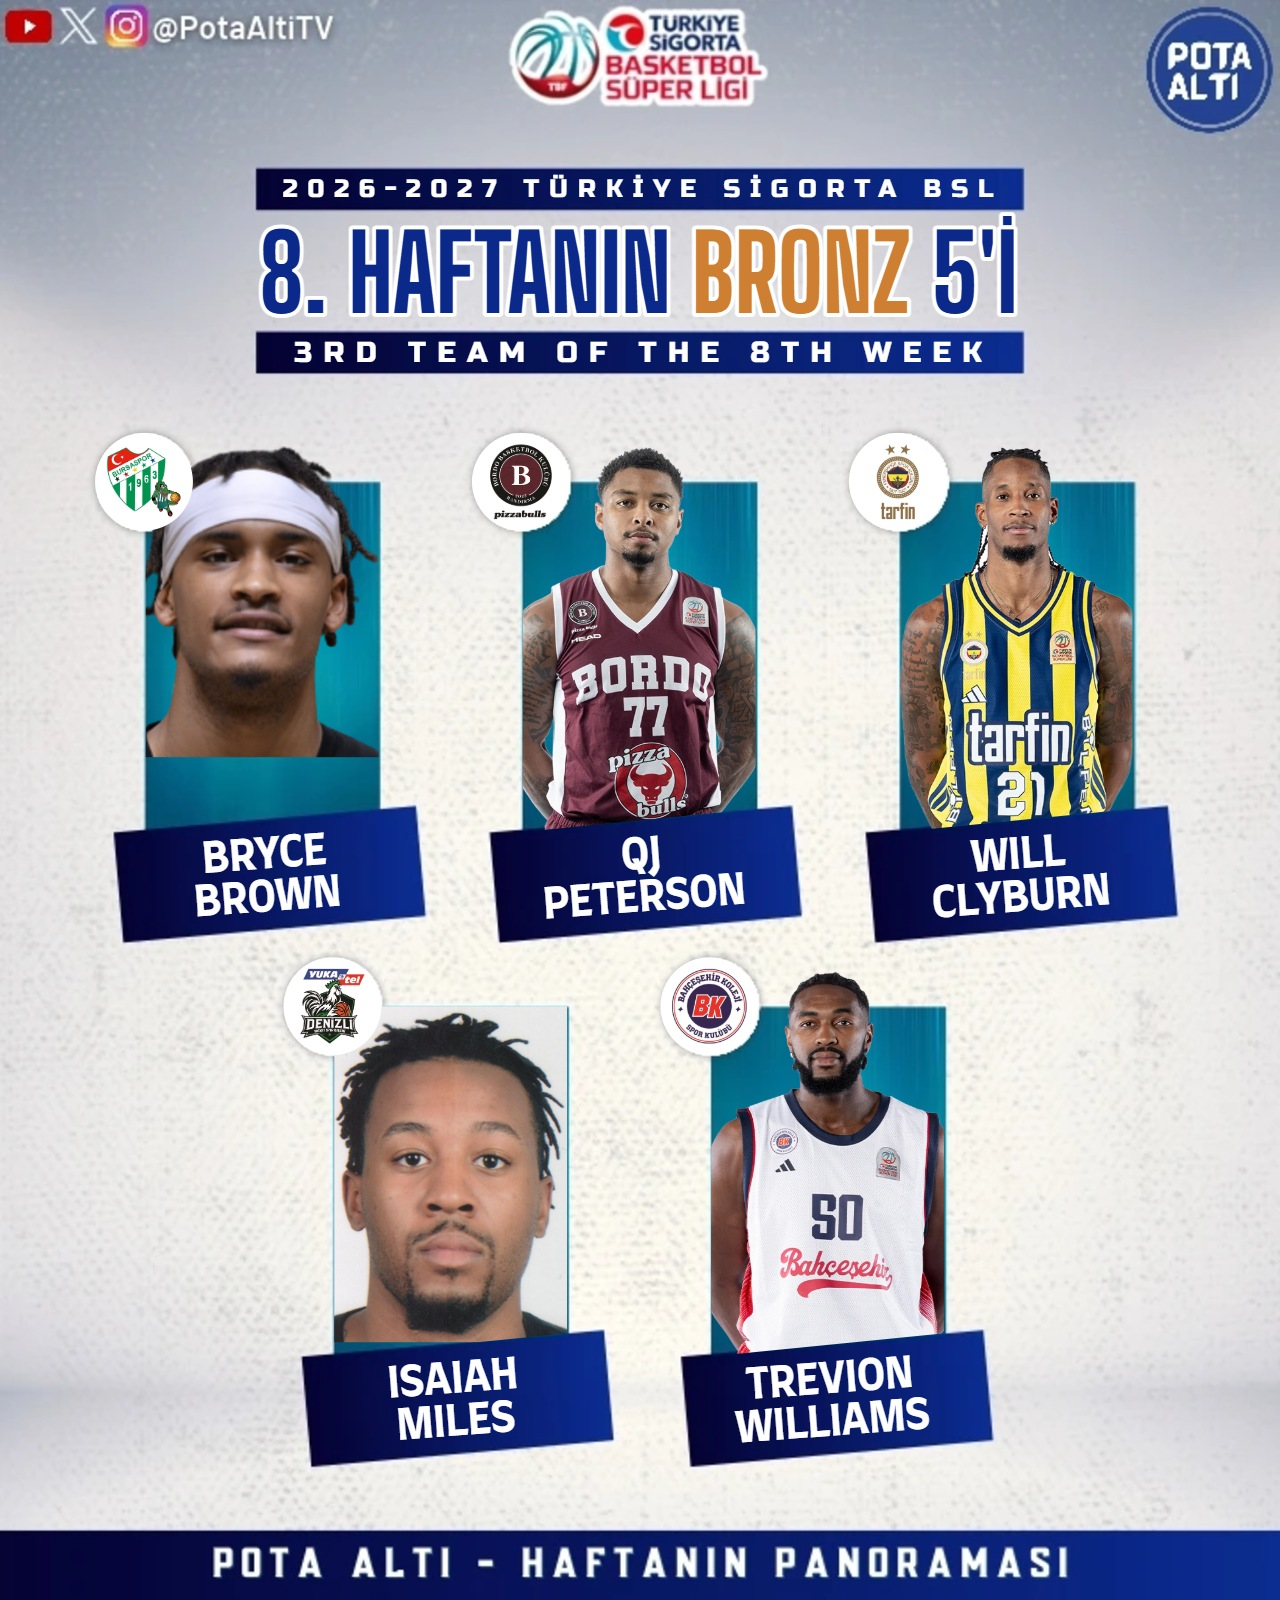
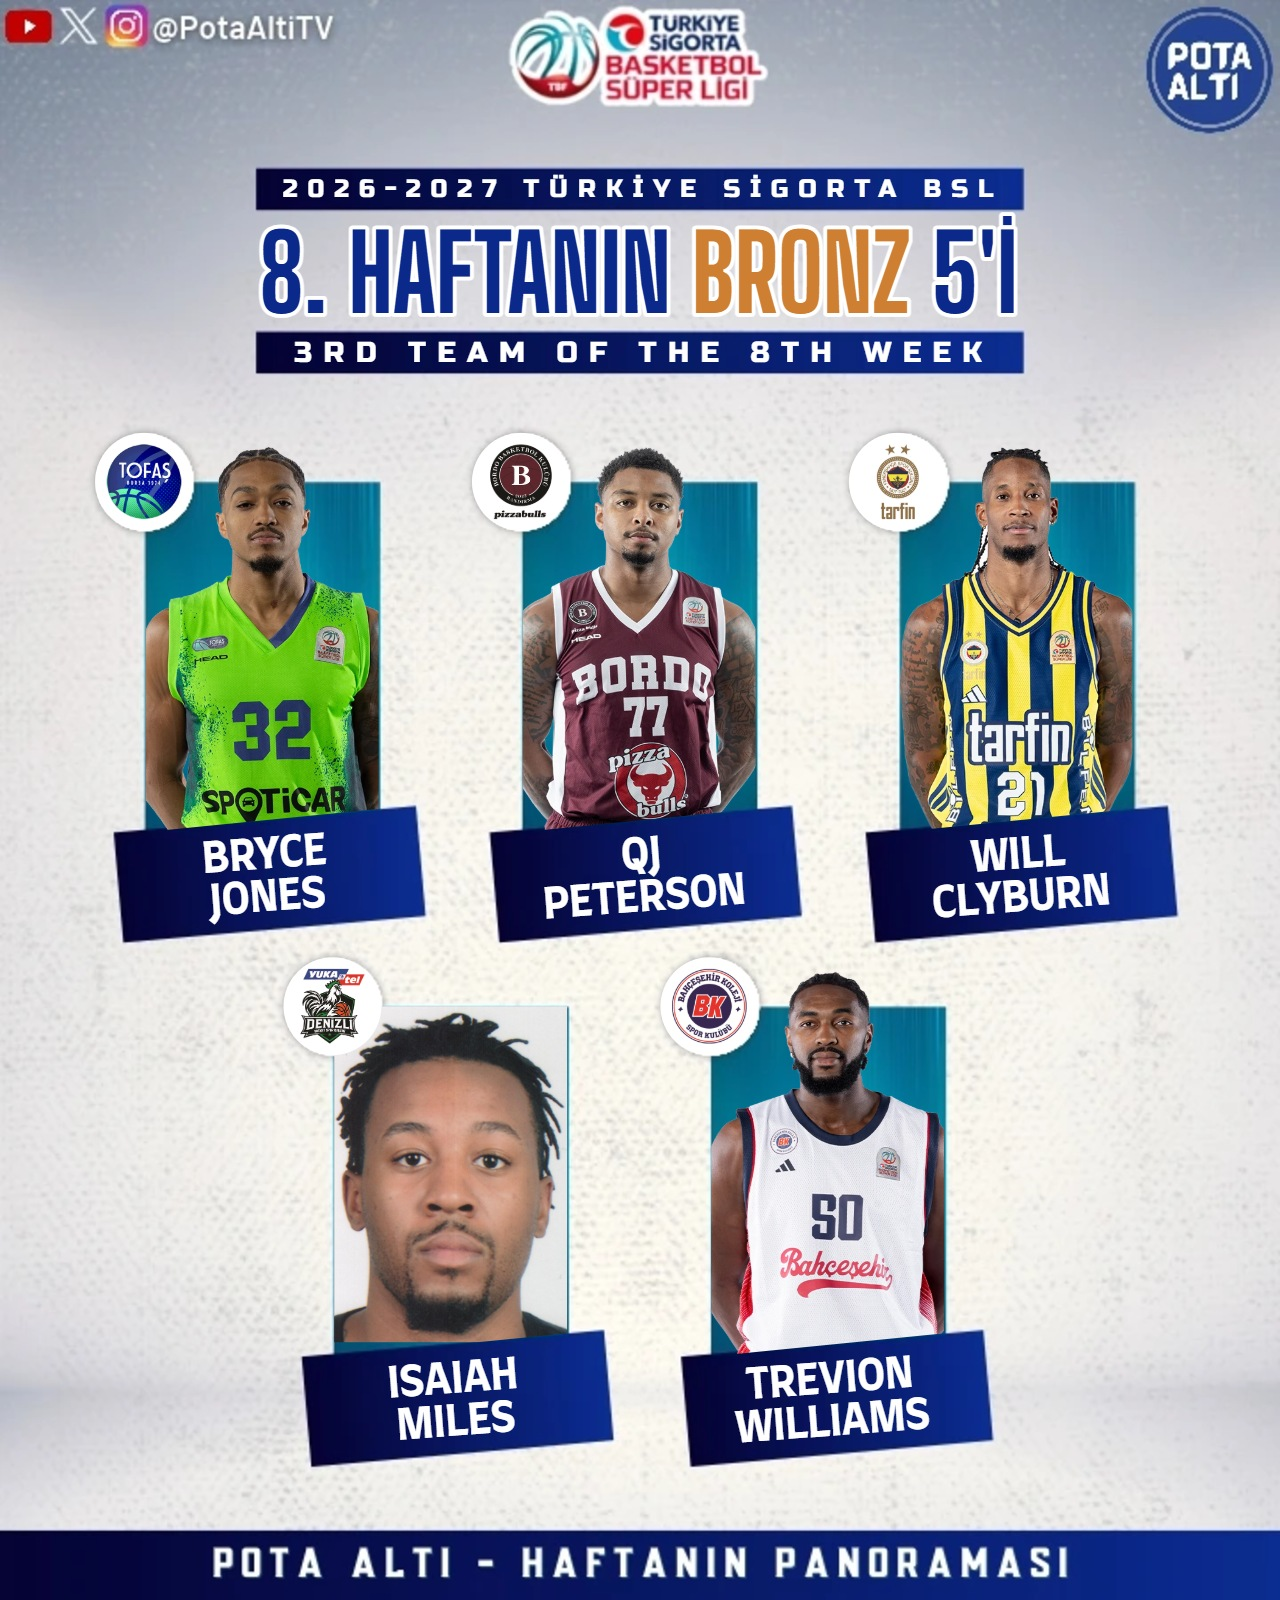
BSL 8. hafta: Bryce Brown yerine Bryce Jones; yeni 5'li: Haftanın Kaybedenler Kulübü (kaybeden takımlardan en yüksek VP'li 5)

Changed region(s): [[0.0625, 0.2812, 0.3125, 0.5938]]

diff --git a/site/app.js b/site/app.js
@@ -488,9 +488,10 @@ async function seyirciGorseliniPaylas(anahtar, indir) {
 // BSL'de liste gelmez: oyuncular kurallara göre seçilir (bslListesi), liste aynı biçimde yazılır.
 const TEKLI = { 'mvp': 'mvp', 'yerli mvp': 'yerli', 'kazanan yerli mvp': 'yerli', 'yabanci mvp': 'yabanci', 'kaybeden yerli mvp': 'kaybedenYerli', 'kaybeden yabanci mvp': 'kaybedenYabanci' };
 const TEKLI_AD = { mvp: 'MVP', yerli: 'Yerli MVP', yabanci: 'Yabancı MVP', kaybedenYerli: 'Kaybeden Yerli MVP', kaybedenYabanci: 'Kaybeden Yabancı MVP' };
-const BESLI = { tbl: ['yerli', 'yabanci', 'mansiyon1', 'mansiyon2'], bsl: ['altin', 'gumus', 'bronz', 'mansiyon'] };
+// BSL 5. beşli (2026-11-16, kullanıcı): Haftanın Kaybedenler Kulübü, kaybeden takımlardan en yüksek VP'li 5 oyuncu (listeyi kullanıcı yazar)
+const BESLI = { tbl: ['yerli', 'yabanci', 'mansiyon1', 'mansiyon2'], bsl: ['altin', 'gumus', 'bronz', 'mansiyon', 'kaybeden'] };
 const BESLI_AD = { yerli: 'Yerli 5', yabanci: 'Yabancı 5', mansiyon1: "Mansiyon 5'i – I", mansiyon2: "Mansiyon 5'i – II",
-  altin: 'Altın 5', gumus: 'Gümüş 5', bronz: 'Bronz 5', mansiyon: 'Mansiyon 5' };
+  altin: 'Altın 5', gumus: 'Gümüş 5', bronz: 'Bronz 5', mansiyon: 'Mansiyon 5', kaybeden: 'Kaybedenler Kulübü' };
 // Ödüller sayfasının ligi (sayfa adresinden) ve yayınlanan görsellerin klasörü
 const OL = () => (rota()[1] === 'bsl' ? 'bsl' : 'tbl');
 // BSL'de yerli MVP'nin takımı kazanmış olmalı ("Kazanan Yerli MVP"), MVP'nin de
@@ -514,7 +515,7 @@ function odulListesiCoz(metin) {
     }
     gruplar.at(-1).push(satir);
   }
-  return { tekli, gruplar: gruplar.filter(g => g.length).slice(0, 4) };
+  return { tekli, gruplar: gruplar.filter(g => g.length).slice(0, Math.max(...Object.values(BESLI).map(b => b.length))) }; // BSL'de 5 beşli
 }
 // Haftanın oyuncuları: biten maçların kutu skorlarından, hafta toplamı (iki maç oynadıysa toplanır)
 async function odulHaftasi(h) {

diff --git a/site/odul.js b/site/odul.js
@@ -267,7 +267,7 @@ export async function tekli({ lig = 'tbl', tur, hafta, o, foto, logo }) {
 // ---------- 5'li (TBL: Yerli 5, Yabancı 5, Mansiyon 5'i I–II; BSL: Altın, Gümüş, Bronz, Mansiyon 5) — 720x900 ölçüsünde ----------
 // BSL başlığında 5'in adı kendi renginde; şablonun iki şeridine sezon ve İngilizce satır yazılır
 const BSL_5 = { altin: ['ALTIN', '#fdd702', '1ST TEAM'], gumus: ['GÜMÜŞ', '#8491a2', '2ND TEAM'], bronz: ['BRONZ', '#ce7f31', '3RD TEAM'],
-  mansiyon: ['MANSİYON', '#5de1e6', 'HONORABLE MENTIONS'] };
+  mansiyon: ['MANSİYON', '#5de1e6', 'HONORABLE MENTIONS'], kaybeden: ['KAYBEDENLER KULÜBÜ', '#ff6b6b', "LOSERS' CLUB"] };
 function parcaliBaslik(g, parcalar, cx, y, { yazi, boy, gen, cizgi }) {
   const metin = parcalar.map(p => p[0]).join('');
   let { px, w } = olcu(g, metin, yazi, boy);
@@ -293,7 +293,8 @@ export async function besli({ lig = 'tbl', tur, hafta, oyuncular }) {
   if (lig === 'bsl') {
     const [ad, renk, ing] = BSL_5[tur];
     seritYazisi(g, '2026-2027 TÜRKİYE SİGORTA BSL', 359, 106, 400, 12.5);
-    parcaliBaslik(g, [[`${hafta}. HAFTANIN `, RENK], [ad, renk], [" 5'İ", RENK]], 359, 176, { yazi: BS, boy: 47, gen: 427, cizgi: 4 });
+    // Kaybedenler Kulübü'nde "5'İ" eklenmez ("8. HAFTANIN KAYBEDENLER KULÜBÜ")
+    parcaliBaslik(g, [[`${hafta}. HAFTANIN `, RENK], [ad, renk], ...(tur === 'kaybeden' ? [] : [[" 5'İ", RENK]])], 359, 176, { yazi: BS, boy: 47, gen: 427, cizgi: 4 });
     seritYazisi(g, `${ing} OF THE ${sira(hafta)} WEEK`, 359, 198, 400, 11.5);
     await besliKartlar(g, oyuncular);
     return blob(c);
